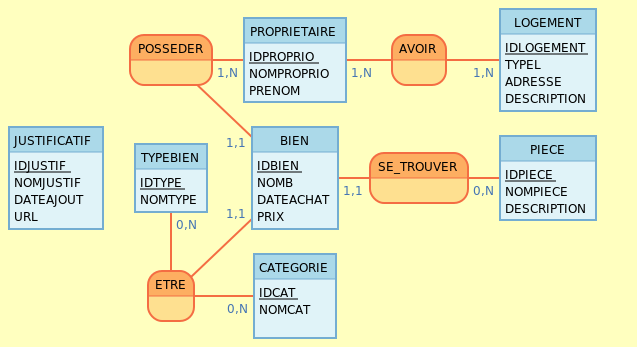
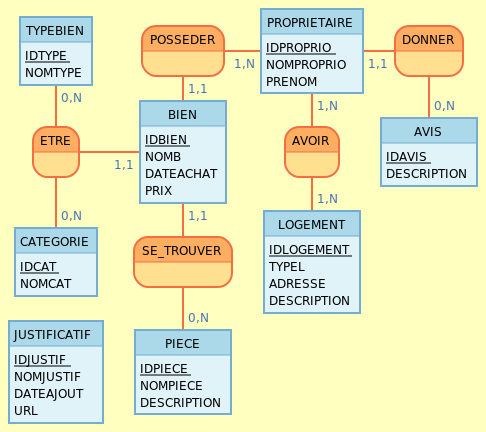
Add files via upload

diff --git a/mcd-mobilist/MCD_mld.html b/mcd-mobilist/MCD_mld.html
@@ -2,6 +2,17 @@
 
 <div class="mld">
 <div>
+  <details><summary><span class='relation'>AVIS</span> (
+    <span class='primary'>IDAVIS</span>,
+    <span class='normal'>DESCRIPTION</span>
+  )</summary>
+  <ul>
+    <li>Le champ <i>IDAVIS</i> constitue la clé primaire de la table. C'était déjà un identifiant de l'entité <i>AVIS</i>.</li>
+    <li>Le champ <i>DESCRIPTION</i> était déjà un simple attribut de l'entité <i>AVIS</i>.</li>
+  </ul></details>
+</div>
+
+<div>
   <details><summary><span class='relation'>AVOIR</span> (
     <span class='foreign primary'>#IDLOGEMENT</span>,
     <span class='foreign primary'>#IDPROPRIO</span>
@@ -19,17 +30,17 @@
     <span class='normal'>DATEACHAT</span>,
     <span class='normal'>PRIX</span>,
     <span class='foreign'>#IDPROPRIO</span>,
-    <span class='foreign'>#IDPIECE</span>,
     <span class='foreign'>#IDCAT</span>,
-    <span class='foreign'>#IDTYPE</span>
+    <span class='foreign'>#IDTYPE</span>,
+    <span class='foreign'>#IDPIECE</span>
   )</summary>
   <ul>
     <li>Le champ <i>IDBIEN</i> constitue la clé primaire de la table. C'était déjà un identifiant de l'entité <i>BIEN</i>.</li>
     <li>Les champs <i>NOMB</i>, <i>DATEACHAT</i> et <i>PRIX</i> étaient déjà de simples attributs de l'entité <i>BIEN</i>.</li>
     <li>Le champ <i>IDPROPRIO</i> est une clé étrangère. Il a migré par l'association de dépendance fonctionnelle <i>POSSEDER</i> à partir de l'entité <i>PROPRIETAIRE</i> en perdant son caractère identifiant.</li>
-    <li>Le champ <i>IDPIECE</i> est une clé étrangère. Il a migré par l'association de dépendance fonctionnelle <i>SE_TROUVER</i> à partir de l'entité <i>PIECE</i> en perdant son caractère identifiant.</li>
     <li>Le champ <i>IDCAT</i> est une clé étrangère. Il a migré par l'association de dépendance fonctionnelle <i>ETRE</i> à partir de l'entité <i>CATEGORIE</i> en perdant son caractère identifiant.</li>
     <li>Le champ <i>IDTYPE</i> est une clé étrangère. Il a migré par l'association de dépendance fonctionnelle <i>ETRE</i> à partir de l'entité <i>TYPEBIEN</i> en perdant son caractère identifiant.</li>
+    <li>Le champ <i>IDPIECE</i> est une clé étrangère. Il a migré par l'association de dépendance fonctionnelle <i>SE_TROUVER</i> à partir de l'entité <i>PIECE</i> en perdant son caractère identifiant.</li>
   </ul></details>
 </div>
 
@@ -86,11 +97,13 @@
   <details><summary><span class='relation'>PROPRIETAIRE</span> (
     <span class='primary'>IDPROPRIO</span>,
     <span class='normal'>NOMPROPRIO</span>,
-    <span class='normal'>PRENOM</span>
+    <span class='normal'>PRENOM</span>,
+    <span class='foreign'>#IDAVIS</span>
   )</summary>
   <ul>
     <li>Le champ <i>IDPROPRIO</i> constitue la clé primaire de la table. C'était déjà un identifiant de l'entité <i>PROPRIETAIRE</i>.</li>
     <li>Les champs <i>NOMPROPRIO</i> et <i>PRENOM</i> étaient déjà de simples attributs de l'entité <i>PROPRIETAIRE</i>.</li>
+    <li>Le champ <i>IDAVIS</i> est une clé étrangère. Il a migré par l'association de dépendance fonctionnelle <i>DONNER</i> à partir de l'entité <i>AVIS</i> en perdant son caractère identifiant.</li>
   </ul></details>
 </div>
 
